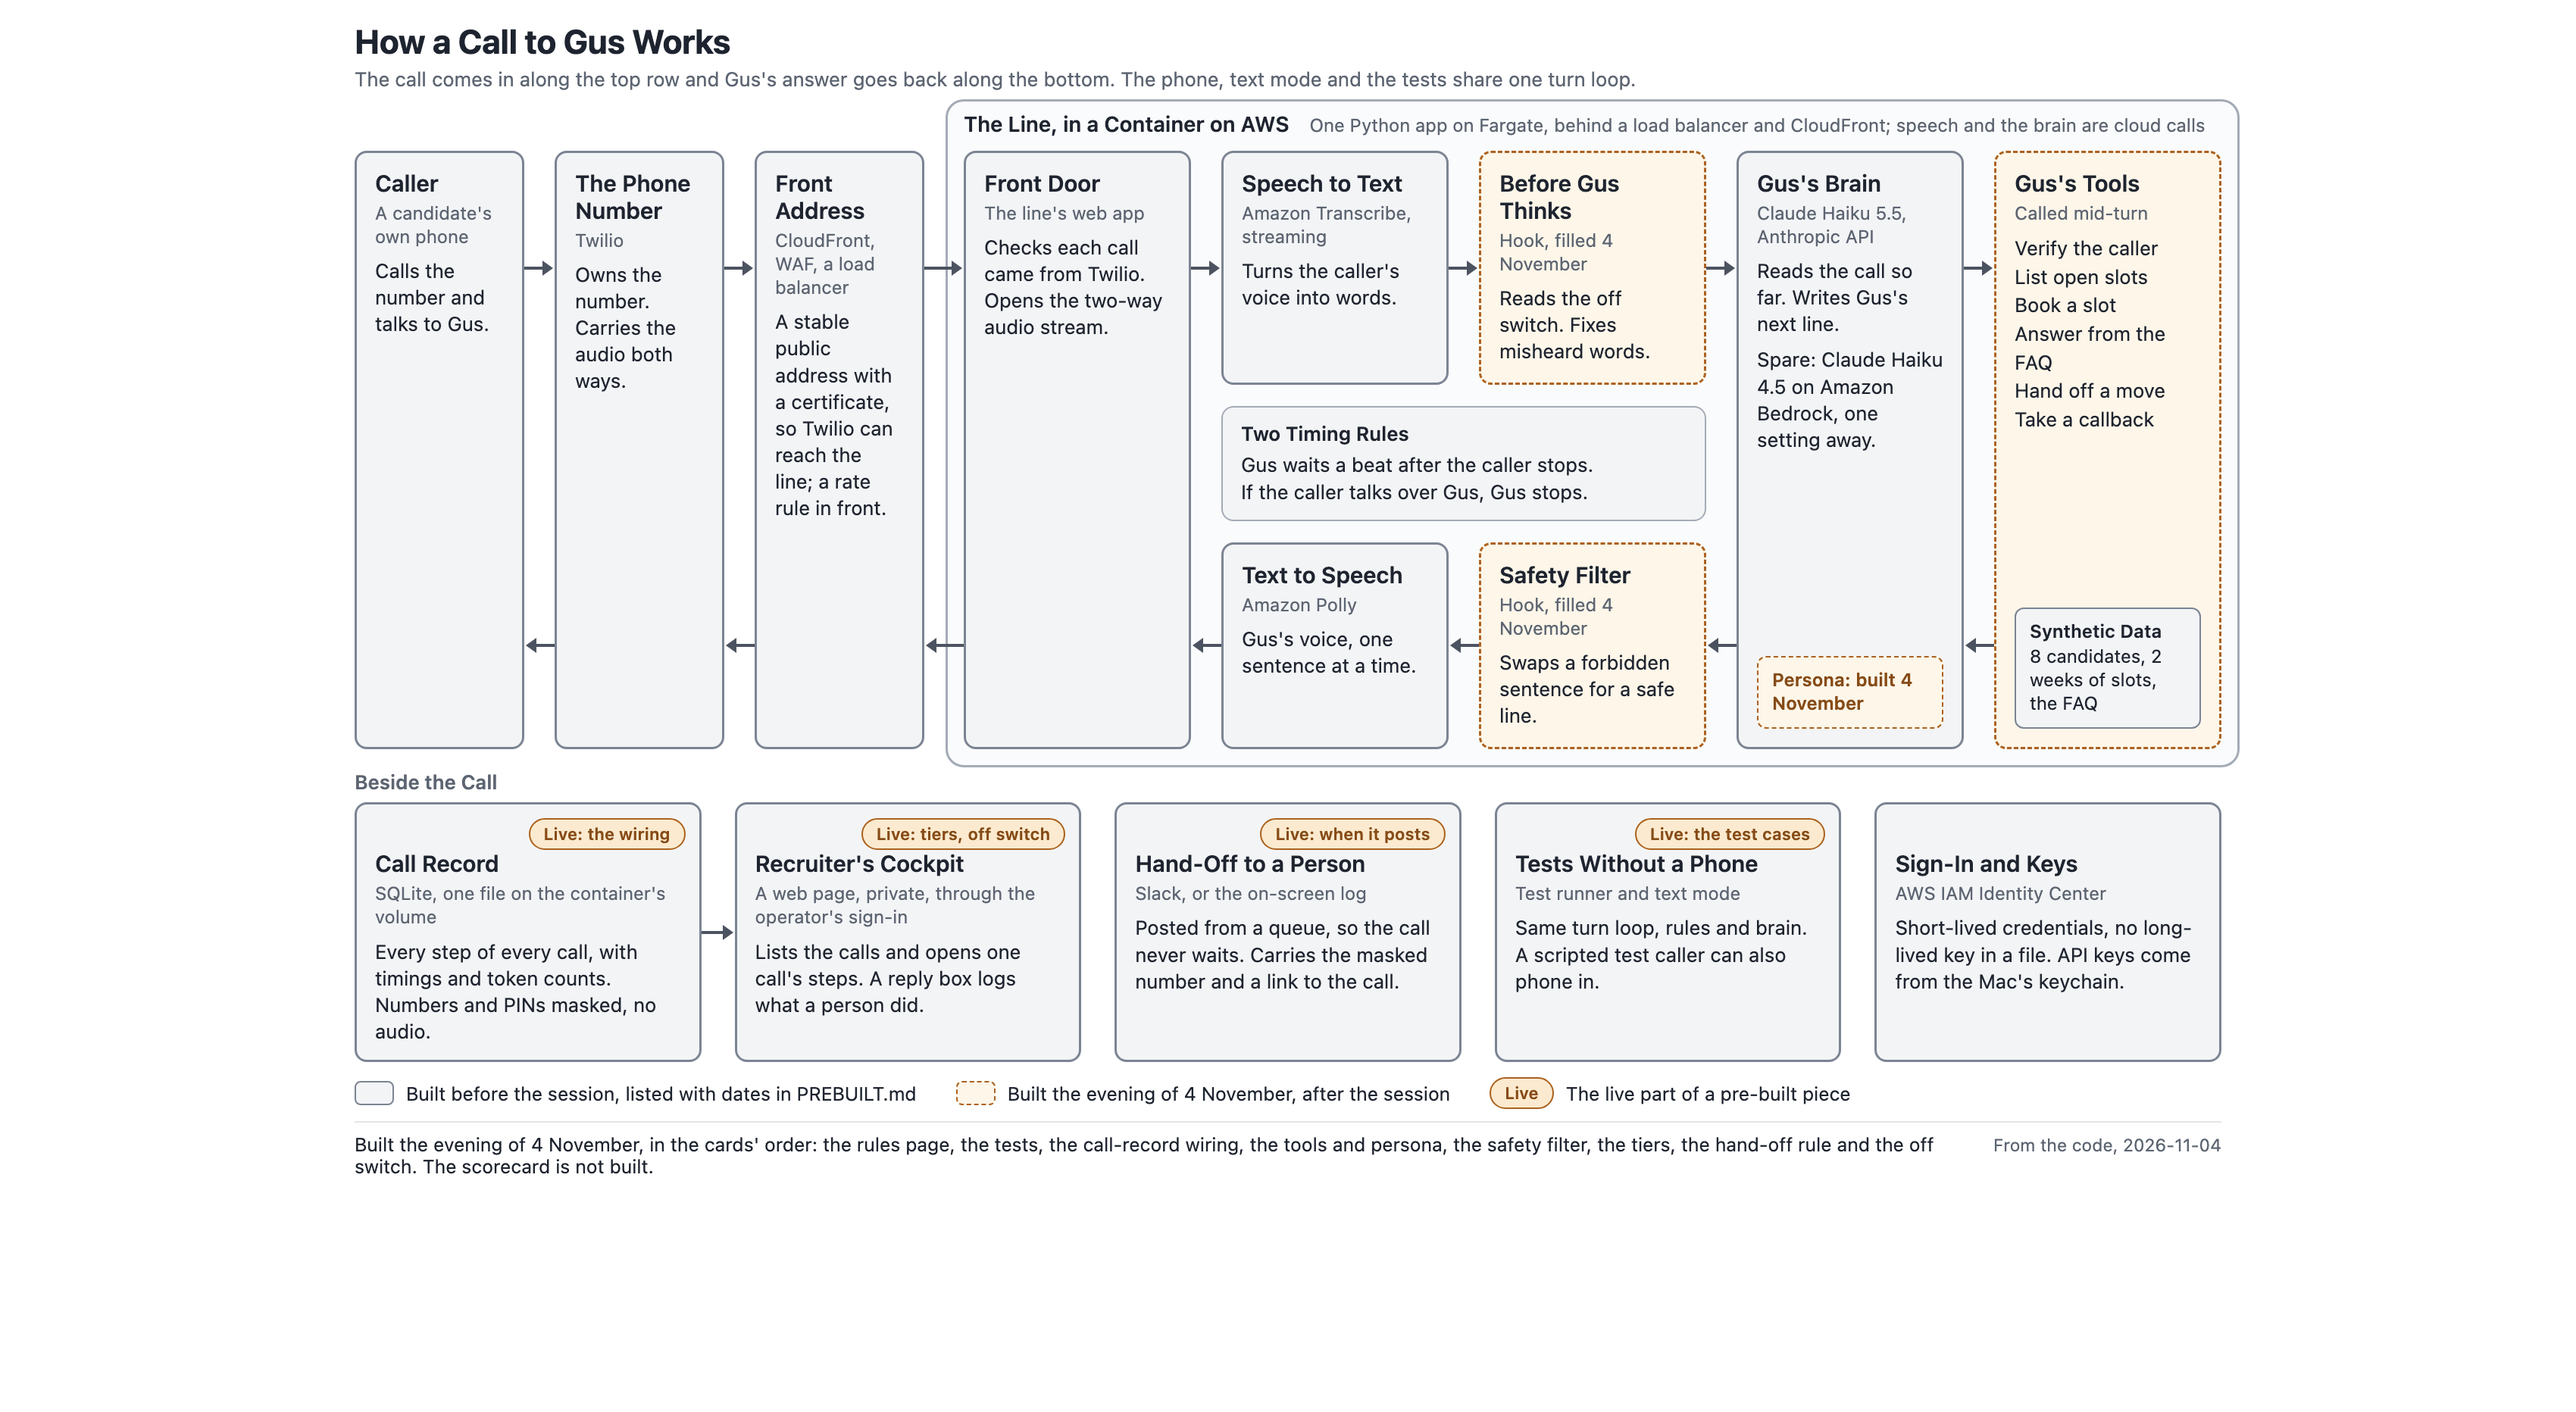
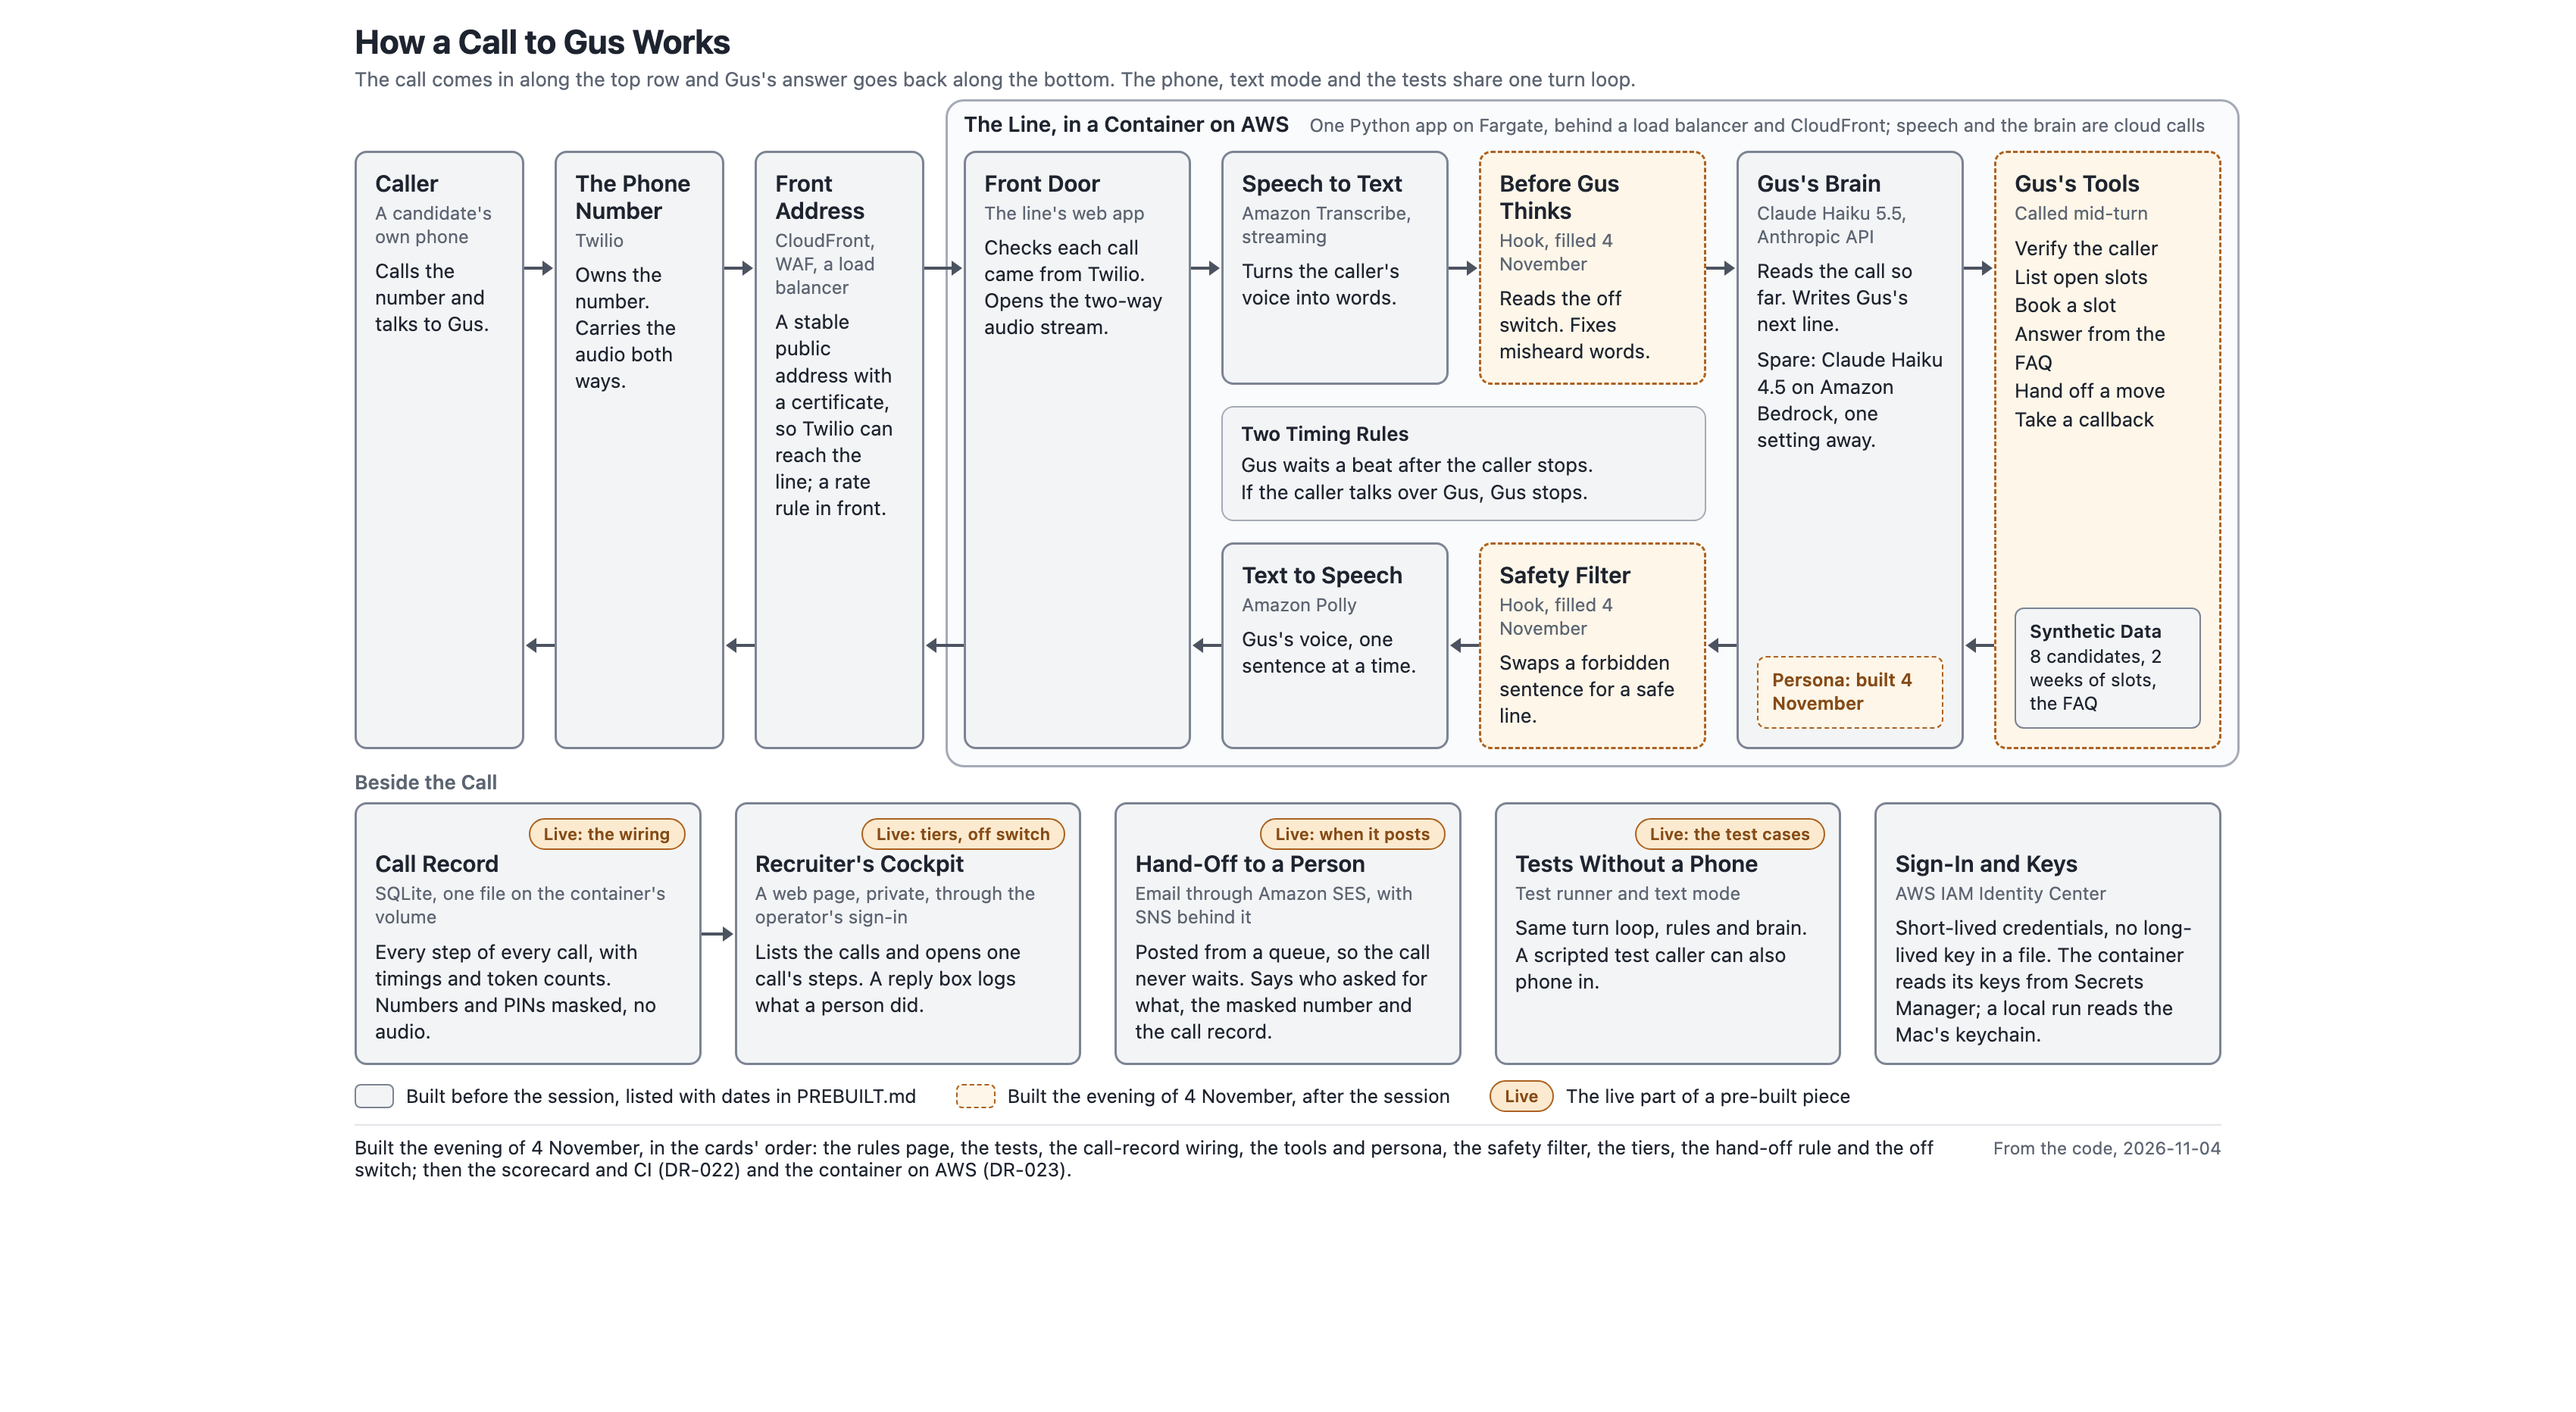
docs: the architecture page says hand-offs go by email through SES, keys come from Secrets Manager in the container, and the scorecard was built; DR-023 notes the lost daily count
Two captions and the footer still read as the tree stood before the evening of 4 November ("Slack, or the on-screen log", the keychain, "the scorecard is not built"); the notes rows follow. DR-023 records the one daily count the container did not keep, with the evidence and the next step.

Claude-Session: https://claude.ai/code/session_01TFo7LmXcRdBPhcak2oBiDg

Changed region(s): [[0.1247, 0.6223, 0.7482, 0.8401], [0.7171, 0.6534, 0.8418, 0.7779], [0.7794, 0.809, 0.8418, 0.8401]]

diff --git a/docs/showcase/architecture.html b/docs/showcase/architecture.html
@@ -202,8 +202,8 @@
     <div class="box" style="grid-column:5">
       <span class="pill">Live: when it posts</span>
       <h3>Hand-Off to a Person</h3>
-      <div class="cap">Slack, or the on-screen log</div>
-      <p>Posted from a queue, so the call never waits. Carries the masked number and a link to the call.</p>
+      <div class="cap">Email through Amazon SES, with SNS behind it</div>
+      <p>Posted from a queue, so the call never waits. Says who asked for what, the masked number and the call record.</p>
     </div>
     <div class="box" style="grid-column:7">
       <span class="pill">Live: the test cases</span>
@@ -214,7 +214,7 @@
     <div class="box" style="grid-column:9">
       <h3>Sign-In and Keys</h3>
       <div class="cap">AWS IAM Identity Center</div>
-      <p>Short-lived credentials, no long-lived key in a file. API keys come from the Mac's keychain.</p>
+      <p>Short-lived credentials, no long-lived key in a file. The container reads its keys from Secrets Manager; a local run reads the Mac's keychain.</p>
     </div>
   </div>
 
@@ -225,7 +225,7 @@
   </div>
 
   <div class="footer">
-    <div>Built the evening of 4 November, in the cards' order: the rules page, the tests, the call-record wiring, the tools and persona, the safety filter, the tiers, the hand-off rule and the off switch. The scorecard is not built.</div>
+    <div>Built the evening of 4 November, in the cards' order: the rules page, the tests, the call-record wiring, the tools and persona, the safety filter, the tiers, the hand-off rule and the off switch; then the scorecard and CI (DR-022) and the container on AWS (DR-023).</div>
     <div class="date">From the code, 2026-11-04</div>
   </div>
 </div>

diff --git a/docs/decisions/DR-023-the-line-in-a-container.md b/docs/decisions/DR-023-the-line-in-a-container.md
@@ -64,6 +64,7 @@ A second task (SQLite on EFS is a single-writer design: then RDS); a custom doma
 - 20:47 to 20:52: the last image of the evening (the email change) rolled out; a probe call asked for a callback as Mei Petrov through the distribution and the hand-off reached the operator's inbox at 20:52 in the new form, the third row in the container's escalations table, posted with no error.
 - 21:01 to 21:06:57: the hand-off note moved to SES. The operator read the SNS email and called it improper for a firm's coordinator (it came from no-reply at sns.amazonaws.com, carried AWS's unsubscribe block with the topic's ARN and the recipient's address, and ended on an internal sentence). The stack gained the operator's address as an SES identity (verified by one click) and the task role `ses:SendEmail` on it; the note now arrives from "ACME Candidate Line" as plain sentences (who asked for what, from which masked number and when, what to do, the call record's id), with the SNS topic as the fallback when a send fails.
 - 21:07 to 21:08: a callback probe through the distribution produced the fourth hand-off row, channel `ses`, posted with no error, and the note reached the operator's inbox.
+- Still open (read 2026-11-05 08:58 CT): the ledger's daily count for 4 November reads 1 where the store holds two voice calls through `/voice` that evening (the operator's at 20:13:57 and the dialled probe at 20:43:46, both with a `POST /voice` line in the container's log). The same code counts 1, 2, 3 across three processes on one file on the Mac, and inside the container the counter's ledger is file-backed at the volume's `state.json`, so the lost count has no explanation yet. The cap still bounds the bill; it may run one call long. The next step is a second counted call on the container with the file read before and after.
 - Still open: the first call on a fresh task waits 8 to 13 s for the greeting (three probes after deployments: 11.2 s before the warm-up, 8.4 s and 13.7 s after it; a dialled call to a task already warm by a probe: 3.7 s), so the warm-up removes part of the cold start and not all of it. The next step is to find the remaining wait in the first stream's own log lines before changing anything.
 - 21:07 to 21:15: the SES note was delivered but landed in the operator's spam folder, shown as from "me": the sender is the operator's own Gmail address, which gmail.com does not authorize Amazon's servers to send for, so Gmail's checks fail on it. SES accepted and delivered (two attempts, no bounce, no reject). The right sender is an address on a domain the operator owns, verified in SES with its DKIM records in that domain's DNS, so a firm's coordinator receives the note in the inbox with no "via" warning; until that domain is set up, the note reaches the operator only after Gmail is told the sender is not spam. The sender address and the recipients are settings, so the change is the DNS records and two stack parameters, no code.
 - 21:25 to 21:30: the operator's controls proven. The cockpit inside the container answered through the SSM port-forward (`make cockpit-forward`, http://127.0.0.1:8011/) with both real calls listed, their steps, model time, tier and hand-offs; the kill switch flipped from the Mac with `make line-off` (the file appeared on the task's volume) and `make line-on` (it was gone), nobody calling in between. Not built: the redesigned recruiting-lead screen (a design page, `docs/showcase/cockpit-design.html`), the recruiter's reply spoken on the next turn, and the summary job; DR-021 lists their files.

diff --git a/docs/showcase/architecture-notes.md b/docs/showcase/architecture-notes.md
@@ -26,9 +26,9 @@ The page is `architecture.html` beside this file, drawn from this repository at 
 
 - **Call Record (pill: Live, the wiring).** One SQLite file, text only, never audio: `candidate_line/traces/store.py:1-7`, path `store.py:22-24`. Numbers masked at `store.py:91`, a meta key named pin masked at `store.py:73-81`. The call row starts at `app.py:139-142` and ends at `media.py:150`. The per-turn spans are card 03's live wiring (`media.py:6-7`).
 - **Recruiter's Cockpit (pill: Live, tiers, off switch).** Loopback only, 127.0.0.1:8001: `candidate_line/traces/cockpit.py:1-5`, `Makefile:44-45`. The list of calls: `cockpit.py:148-165`; one call: `cockpit.py:167-204`; the reply box: `cockpit.py:132-137` and its handler `cockpit.py:206-212`. The tier column and the kill switch are card 06; the override spoken on the next turn is built only at 90 minutes (the session's run plan (not in this tree), "At 60": no override typed from the cockpit, planned as DR-021, which was not written), so the pill no longer names it.
-- **Hand-Off to a Person (pill: Live, when it posts).** A bounded queue with one worker thread: `candidate_line/escalation.py:109-115`. Slack when its webhook is set, else the on-screen `[hand-off]` log: `escalation.py:156-158`, `escalation.py:93-106`. The message template with caller and trace link: `escalation.py:27-34`, `escalation.py:60`. When it posts is card 06's tier rule.
+- **Hand-Off to a Person (pill: Live, when it posts).** A bounded queue with one worker thread: `candidate_line/escalation.py` (`EscalationQueue`). Since the evening of 4 November the note goes by email through Amazon SES from "ACME Candidate Line", with the SNS topic behind it and Slack or the on-screen `[hand-off]` log only when neither is configured: `escalation.py` (`SesPoster`, `SnsPoster`, `default_poster`), `docs/decisions/DR-023`. The note's sentences: `escalation.py` (`format_email`, `format_subject`). When it posts is card 06's tier rule.
 - **Tests Without a Phone (pill: Live, the test cases).** The eval runner uses the same turn loop, persona and hooks: `candidate_line/evals/runner.py:1-10`, `runner.py:131`. Text mode: `candidate_line/text_mode.py:1-5`. The scripted test caller that dials in: `candidate_line/probe/dial.py:1-7`. The cases are card 02.
-- **Sign-In and Keys.** IAM Identity Center with short-lived credentials and no long-lived key: `docs/decisions/DR-002-aws-sign-in-and-spend.md:9-18`. The line runs on the `candidate-line` profile: `scripts/up.sh:15`. API keys and the Twilio token come from the login keychain: `scripts/env.sh:4-5`.
+- **Sign-In and Keys.** IAM Identity Center with short-lived credentials and no long-lived key: `docs/decisions/DR-002-aws-sign-in-and-spend.md:9-18`. The line runs on the `candidate-line` profile: `scripts/up.sh:15`. API keys and the Twilio token come from the login keychain: `scripts/env.sh:4-5`. In the container they come from Secrets Manager into the task's environment: `infra/aws/candidate-line-stack.yaml` (the task definition's `Secrets`), `docs/decisions/DR-023`.
 
 ## Built before the session, and planned for it
 
